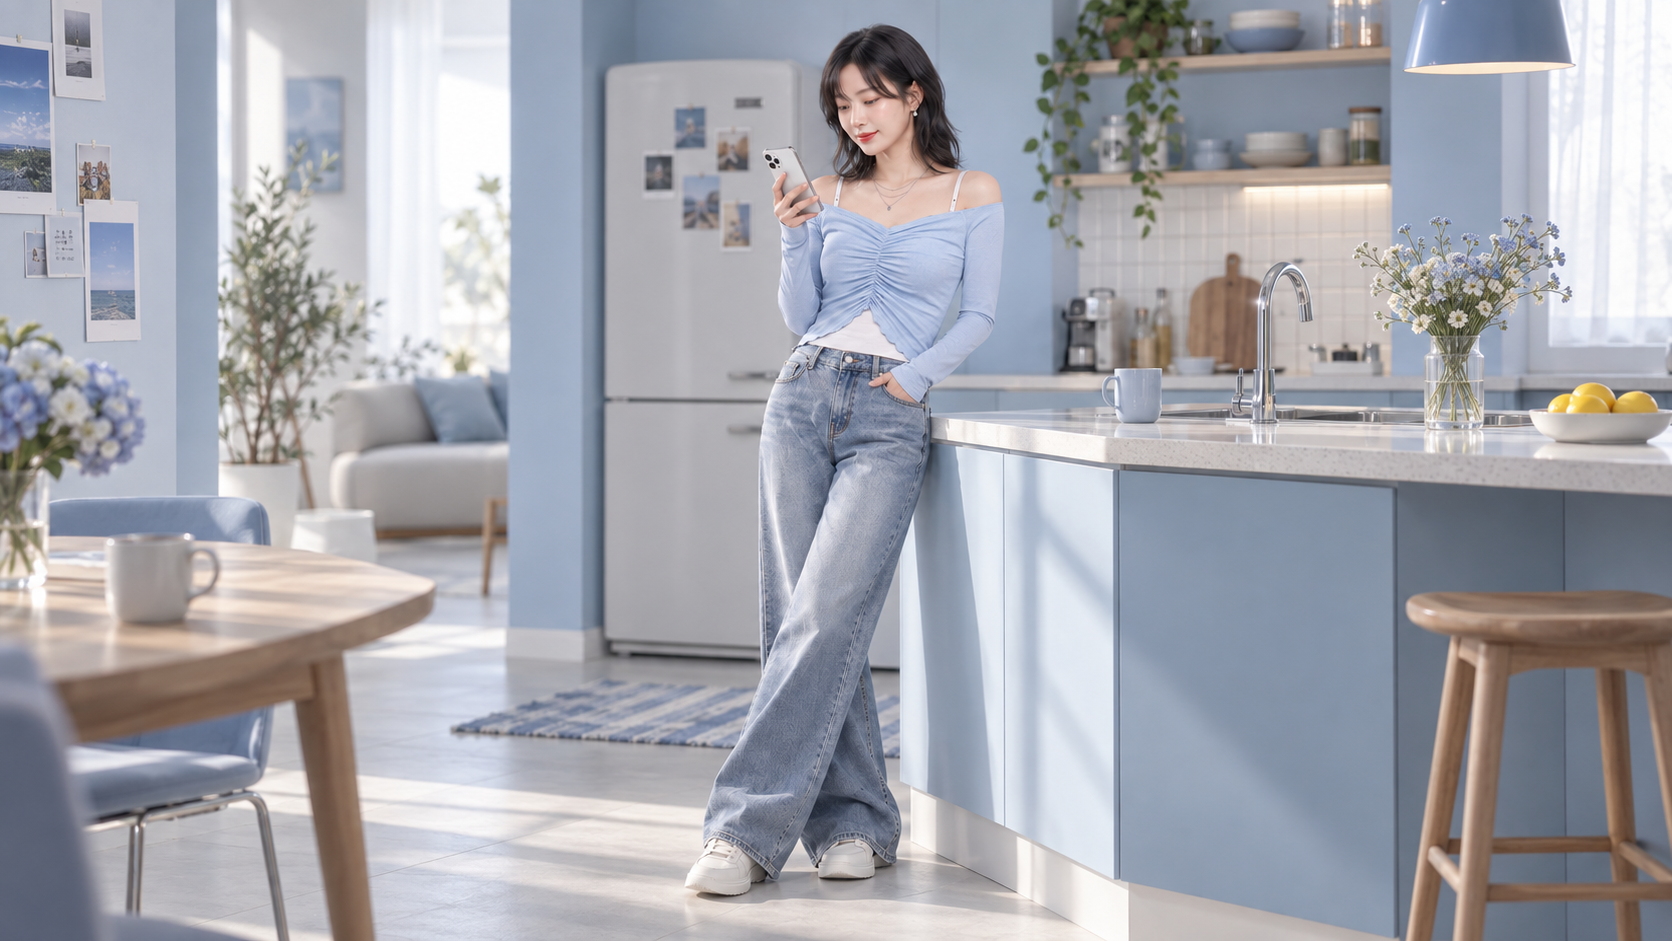
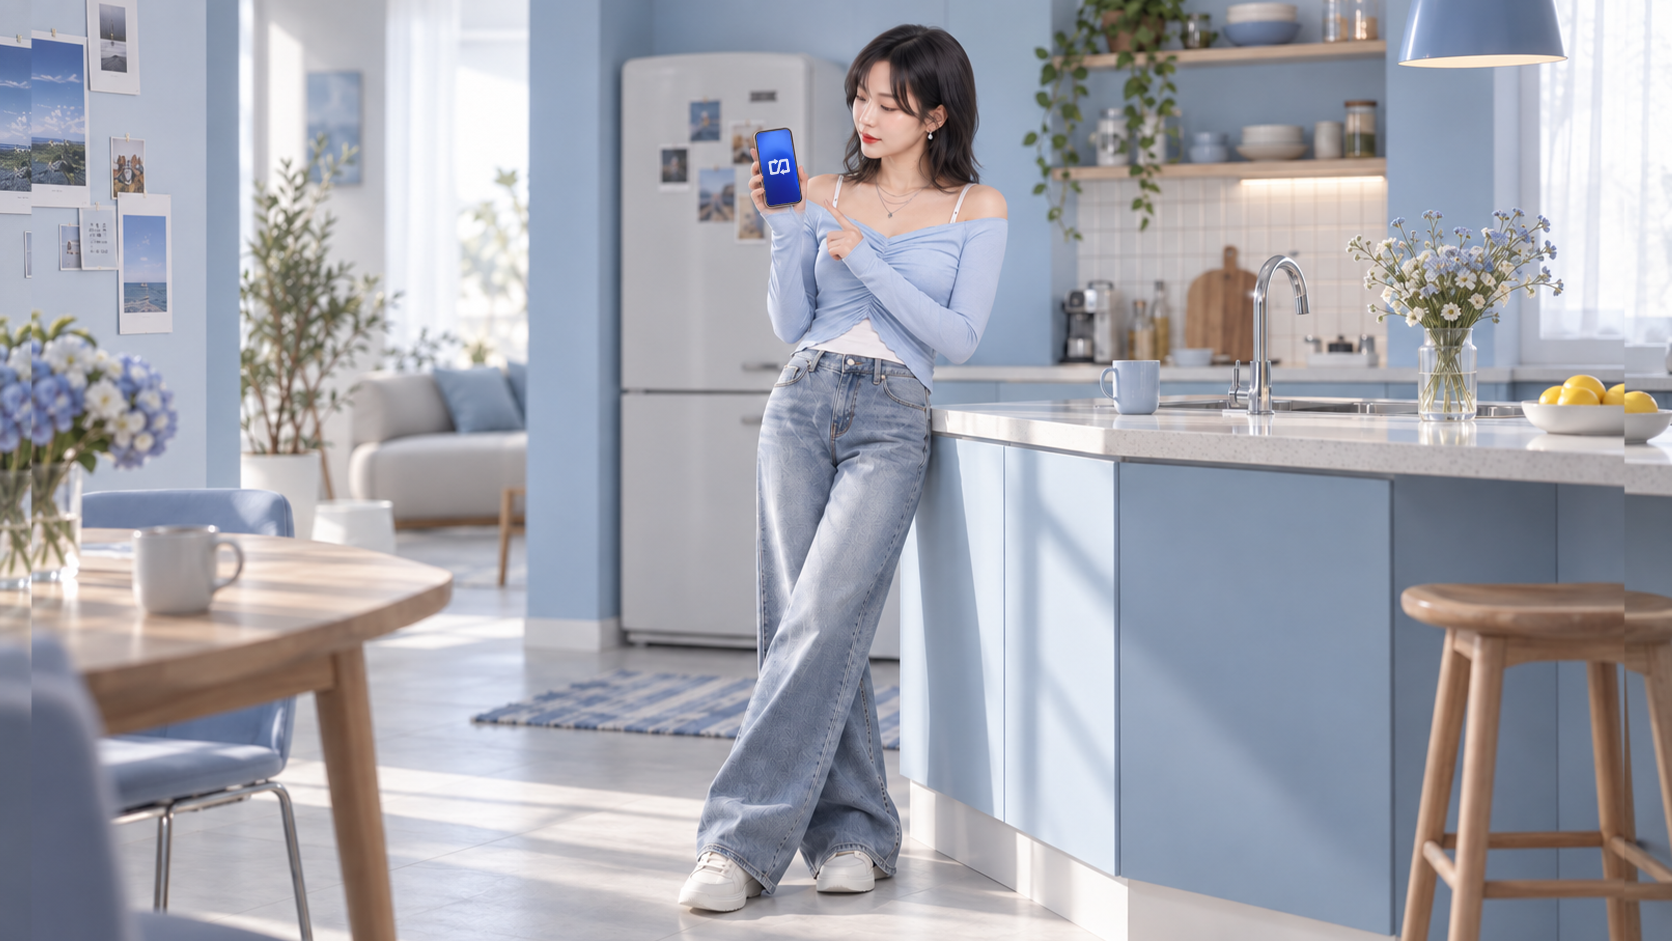
「쉽고 빠른」 흰 상자가 제목까지 감싸게 · 회사소개 상단 사진 교체 (휴대폰 화면이 보이는 컷)

diff --git a/index.html b/index.html
@@ -1416,10 +1416,15 @@
     left:50%; width:100vw; transform:translateX(-50%); pointer-events:none;
     background:color-mix(in srgb, var(--primary) 7%, #fff);}
   #featsec > *{position:relative; z-index:1;}
-  /* 「쉽고 빠른」 내용 — 흰 둥근 상자 (바탕도 흰색이라 얇은 테두리와 옅은 그림자로 경계를 준다) */
-  .hwrap{background:#fff; border:1px solid var(--line); border-radius:24px; padding:20px 16px 28px;
+  /* 「쉽고 빠른」 — 제목부터 내용까지 흰 둥근 상자 하나에 (바탕도 흰색이라 얇은 테두리 · 옅은 그림자로 경계) */
+  #howto > .wrap{box-sizing:border-box; width:calc(100% - 32px); max-width:none; margin:0 16px;
+    background:#fff; border:1px solid var(--line); border-radius:24px; padding:36px 16px 28px;
     box-shadow:0 18px 44px -30px rgba(20,40,90,.25), 0 1px 3px rgba(15,23,42,.04);}
-  @media(min-width:900px){ .hwrap{border-radius:30px; padding:40px 40px 56px;} }
+  #howto > .wrap .hwrap{max-width:none;}
+  @media(min-width:900px){
+    #howto > .wrap{width:100%; max-width:960px; margin:0 auto; border-radius:30px; padding:56px 40px 56px;}
+    #howto > .wrap .hwrap{padding:0 0 0;}
+  }
   /* 사진 띠 — 스크롤 위치에 따라 가로 · 세로로 퍼졌다 다시 오므라든다 */
   /* 오려내기(clip-path)는 띠 자체가 아니라 바깥 창에 건다.
      띠는 따로 한 겹(layer)으로 올려두면, 창만 바뀔 때 다시 그리지 않아 폰에서 안 끊긴다 */

diff --git a/about.html b/about.html
@@ -350,7 +350,7 @@
 <main class="main">
   <!-- 1. 헤더 — 사진 한 장. 교체는 아래 img 한 줄만 -->
   <header class="ahd">
-    <img class="ahd-img" src="img/about-hero.png?v=1" alt="집에서 휴대폰으로 결제하는 모습">
+    <img class="ahd-img" src="img/about-hero.png?v=2" alt="집에서 휴대폰으로 결제하는 모습">
     <div class="ahd-tx">
       <div class="wrap">
         <span class="ahd-eye">회사소개</span>
